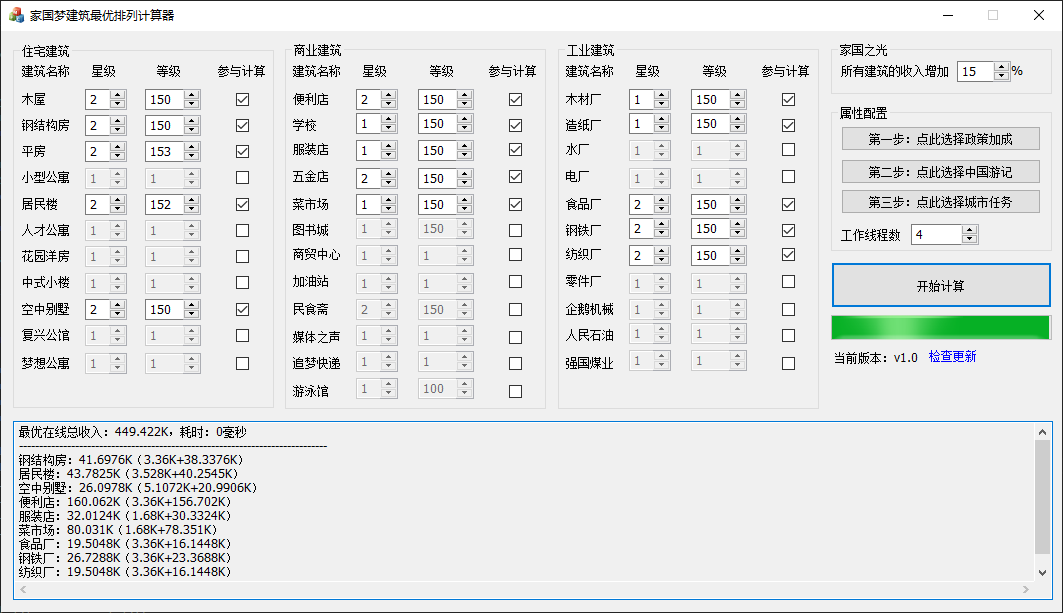
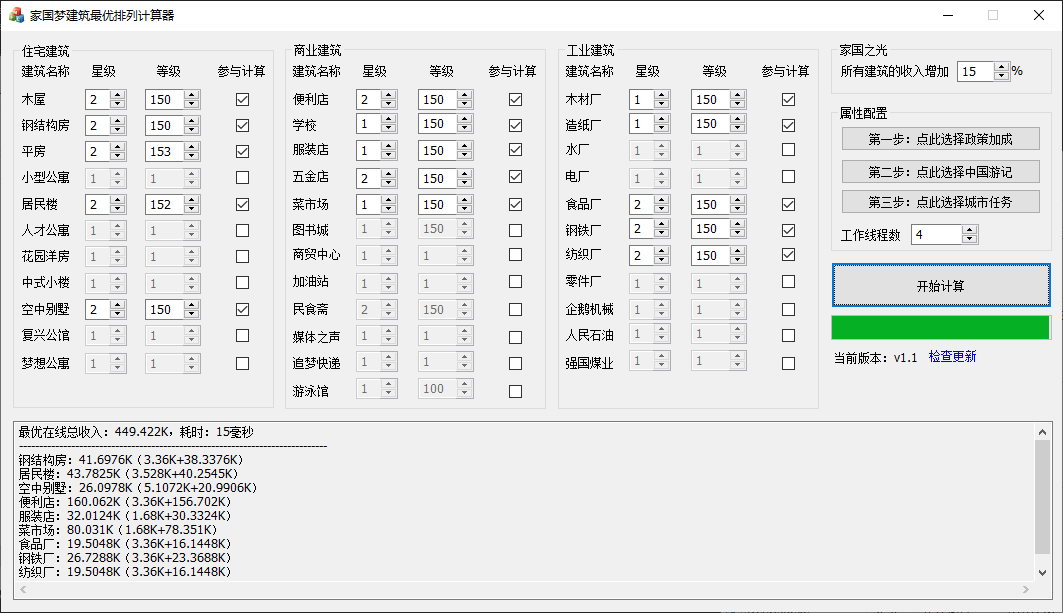
优化内存，避免全选建筑时内存超过限制导致程序退出

Changed region(s): [[0.683, 0.248, 1.0, 1.0], [0.1863, 0.6819, 0.2484, 0.7129]]

diff --git a/Calc.cpp b/Calc.cpp
@@ -110,7 +110,7 @@ void Calc::PrepareBuff(const unordered_map<string, Building*> &mapResidence, con
     }
 }
 
-void Calc::CalcProfit(const string &sCategory, const unordered_map<string, Building*> &mapBuilding, unordered_map<string, map<string, double> > &mapAdditionBuff, multimap<double, unordered_map<string, double> > &mapTotalProfit)
+pair<double, unordered_map<string, double> > Calc::CalcProfit(const string &sCategory, const unordered_map<string, Building*> &mapBuilding, unordered_map<string, map<string, double> > &mapAdditionBuff)
 {
     unordered_map<string, double> mapBuildingProfit;
     double totalProfit = 0;
@@ -129,14 +129,15 @@ void Calc::CalcProfit(const string &sCategory, const unordered_map<string, Build
         totalProfit += dProfit;
         mapBuildingProfit[it->first] = dProfit;
     }
-	mapTotalProfit.insert(make_pair(totalProfit, mapBuildingProfit));
+	return make_pair(totalProfit, mapBuildingProfit);
 }
 
 void Calc::CalcThread(const int &nIndex, const int &nCount, const string& sCategory, const vector<unordered_map<string, Building*> > &vResidence, const vector<unordered_map<string, Building*> > &vBusiness, const vector<unordered_map<string, Building*> > &vIndustrial)
 {
 	int nStartIndex = nIndex * nCount;
 	int nCurIndex = 0;
-	multimap<double, unordered_map<string, double> > mapTotalProfit;
+	double dMaxProfit = 0;
+	unordered_map<string, double> maxProfitBuilding;
 	for (size_t i = 0; i < vResidence.size(); i++)
 	{
 		unordered_map<string, Building*> mapResidence = vResidence[i];
@@ -162,7 +163,12 @@ void Calc::CalcThread(const int &nIndex, const int &nCount, const string& sCateg
 				mapAllBuilding.insert(mapBusiness.begin(), mapBusiness.end());
 				mapAllBuilding.insert(mapIndustrial.begin(), mapIndustrial.end());
 				PrepareBuff(mapResidence, mapBusiness, mapIndustrial, mapAllBuilding, mapAdditionBuff);
-				CalcProfit(sCategory, mapAllBuilding, mapAdditionBuff, mapTotalProfit);
+				pair<double, unordered_map<string, double> > totalProfit = CalcProfit(sCategory, mapAllBuilding, mapAdditionBuff);
+				if (dMaxProfit < totalProfit.first)
+				{
+					dMaxProfit = totalProfit.first;
+					maxProfitBuilding = totalProfit.second;
+				}
 
 				++m_nCurCount;
 			}
@@ -171,7 +177,7 @@ void Calc::CalcThread(const int &nIndex, const int &nCount, const string& sCateg
 
 finish:
 	m_mutex.lock();
-	m_mapTotalProfit.insert(mapTotalProfit.begin(), mapTotalProfit.end());
+	m_mapTotalProfit.insert(make_pair(dMaxProfit, maxProfitBuilding));
 	m_mutex.unlock();
 }
 

diff --git a/Calc.h b/Calc.h
@@ -30,7 +30,7 @@ private:
     void PrepareBuff(const unordered_map<string, Building*> &mapResidence, const unordered_map<string, Building*> &mapBusiness, const unordered_map<string, Building*> &mapIndustrial, const unordered_map<string, Building*> &mapAllBuilding, unordered_map<string, map<string, double> > &mapAdditionBuff);
 
 	void CalcThread(const int &nIndex, const int &nCount, const string& sCategory, const vector<unordered_map<string, Building*> > &vResidence, const vector<unordered_map<string, Building*> > &vBusiness, const vector<unordered_map<string, Building*> > &vIndustrial);
-    void CalcProfit(const string &sCategory, const unordered_map<string, Building*> &mapBuilding, unordered_map<string, map<string, double> > &mapAdditionBuff, multimap<double, unordered_map<string, double> > &mapTotalProfit);
+	pair<double, unordered_map<string, double> > Calc::CalcProfit(const string &sCategory, const unordered_map<string, Building*> &mapBuilding, unordered_map<string, map<string, double> > &mapAdditionBuff);
 
 	void CreateScenes(const int &nThreadCount, const string& sCategory, const vector<unordered_map<string, Building*> > &vResidence, const vector<unordered_map<string, Building*> > &vBusiness, const vector<unordered_map<string, Building*> > &vIndustrial);
 

diff --git a/README.md b/README.md
@@ -1,9 +1,9 @@
 # jiaguomeng
 ### c++版 家国梦建筑最优摆放计算
 
-  C++版本程序比较小，压缩后只有2M，解压后也只有4M，计算速度也是飞快，欢迎体验
+  C++版本程序比较小，压缩后只有2M，解压后也只有4M，计算速度也是飞快，运行时占用内存也非常小，欢迎体验
   
-### 当前最新版本：V1.0
+### 当前最新版本：V1.1
 
 ##界面截图：
 
@@ -25,6 +25,16 @@
 - #### 源代码版：
 
   使用vs2015打开JiaGuoMeng.sln，编译成功即可
+
+## 更新记录：
+
+2019.11.22更新：
+
+- Ver 1.1 优化内存，避免全选建筑时内存超过限制导致程序退出
+
+2019.11.21更新：
+
+- Ver 1.0 发布源代码版本
 
 ## 感谢
 
